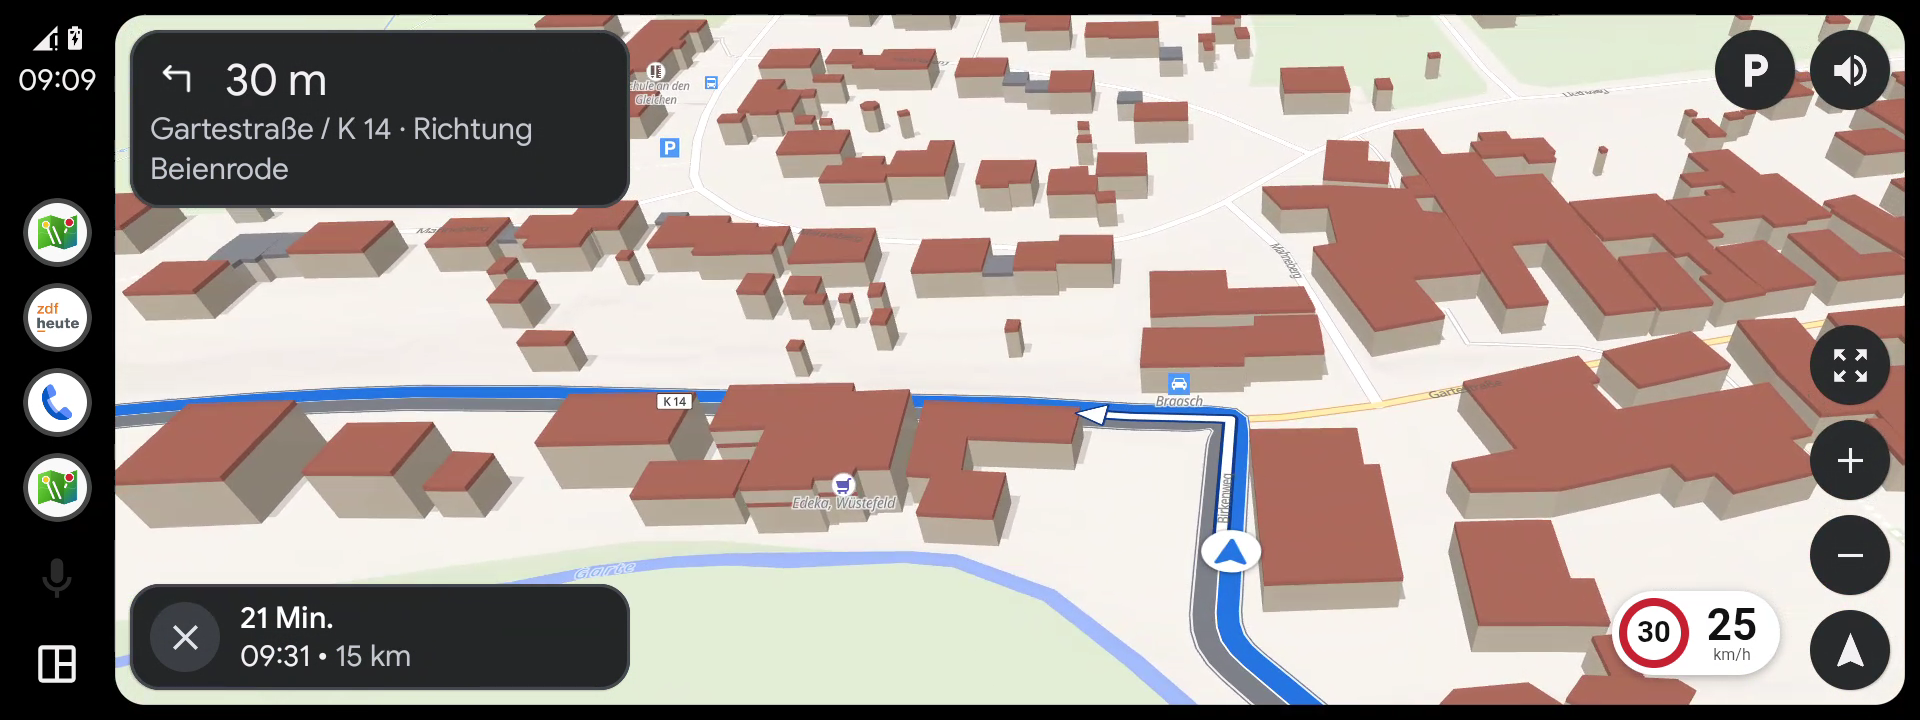
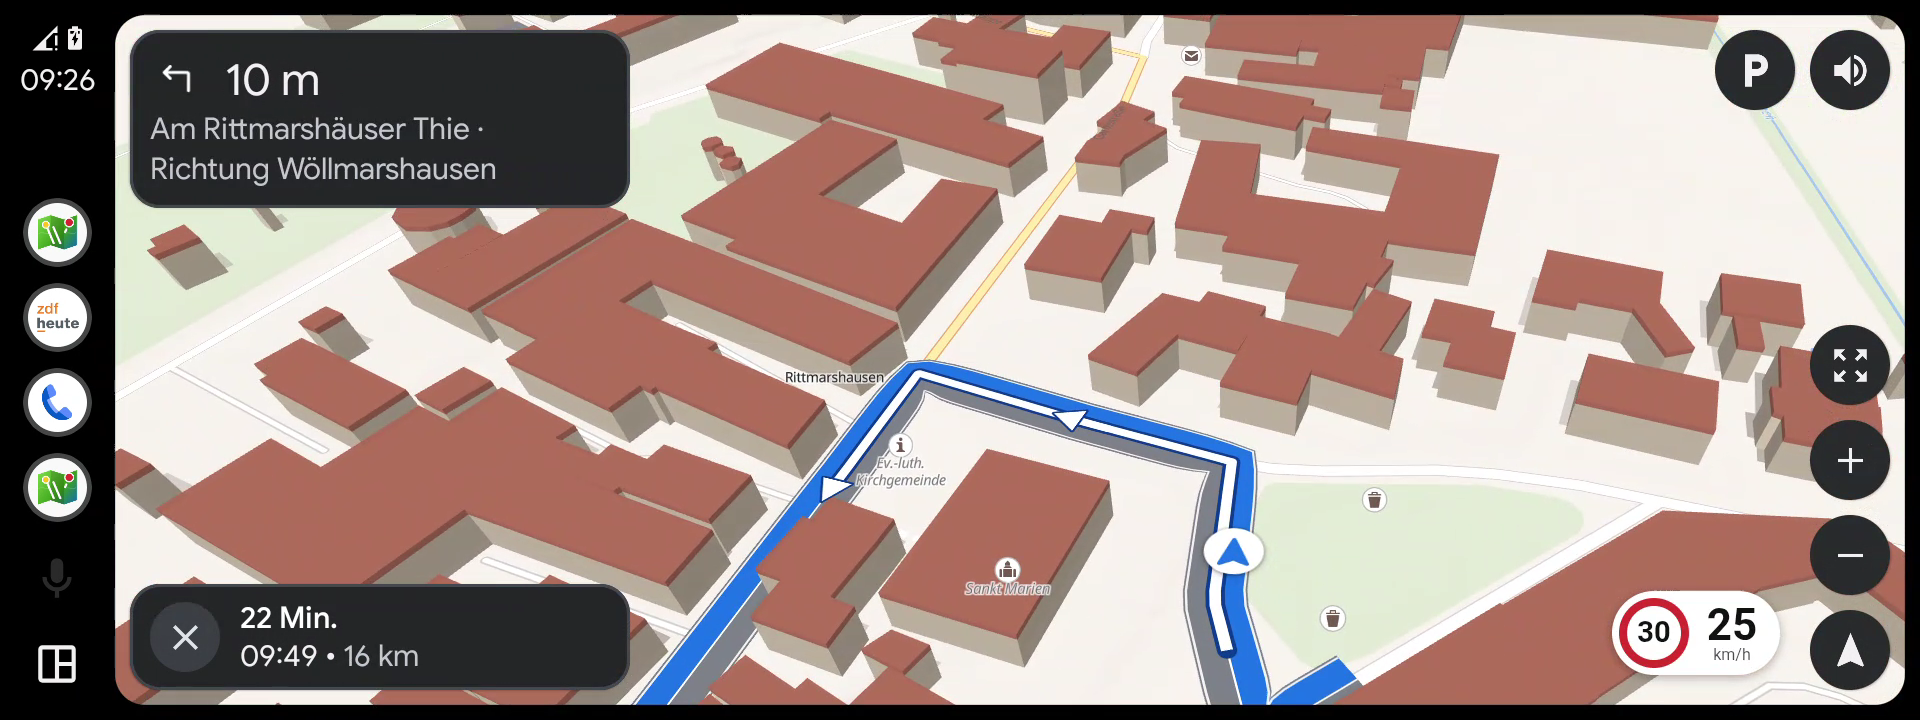
Mit dem Auto zu einem Geschäft, Lokal …: Die Fahrt endet am Parkplatz direkt davor (Rand höchstens 75 m vom Ort, nicht privat) – die Nadel bleibt am Ort, „P“ markiert das Ende, im Sheet steht ein Satz dazu; Navigation und Neuberechnen fahren denselben Punkt an (state.drive). Nur für Ziele, die als O

diff --git a/js/app/drive-target.js b/js/app/drive-target.js
@@ -1,0 +1,87 @@
+/**
+ * Fahrziel fürs Auto: In ein Geschäft, ein Lokal oder eine Praxis fährt man nicht hinein. Die Route endete
+ * bisher an der Straße, die dem Punkt des Orts am nächsten liegt – oft die Rückseite mit der Anlieferung –,
+ * und „Ziel erreicht“ kam dort. Darum endet die Fahrt am nächsten Parkplatz davor; die Nadel bleibt am Ort.
+ *
+ * Gilt nur für Ziele, die als Ort gewählt wurden (Wegpunkt mit `poi`) – nicht für Adressen, Punkte auf der
+ * Karte oder Orte, in die man hineinfährt (Parkplatz, Tankstelle, Ladesäule, Waschanlage).
+ */
+import * as overpass from '../services/overpass.js';
+import { poisInBounds } from '../map/tile-pois.js';
+import { bboxAround, distance } from '../core/geo.js';
+import { map } from './core.js';
+
+/*
+ * „Davor“ heißt: Der Rand des Parkplatzes liegt höchstens so weit vom Punkt des Orts (Meter) – bei einem großen
+ * Markt ist das schon die halbe Halle. Ein Parkplatz weiter weg gehört meist zu etwas anderem; dann bleibt es
+ * beim Ort selbst (die Route endet wie bisher an der nächsten Straße). Die Kartenkacheln kennen nur die Mitte
+ * des Parkplatzes, darum dort etwas mehr.
+ */
+const EDGE_M = 75;
+const CENTER_M = 90;
+/** Länger wartet die Route nicht auf Overpass – dann zählen die Parkplätze aus den Kartenkacheln */
+const WAIT_MS = 2500;
+
+const POI_KEYS = ['shop', 'amenity', 'tourism', 'leisure', 'office', 'craft', 'healthcare'];
+const DRIVE_IN = new Set(['parking', 'parking_entrance', 'parking_space', 'motorcycle_parking', 'fuel',
+  'charging_station', 'car_wash', 'vehicle_inspection', 'camp_site', 'caravan_site']);
+/** Dort parkt man als Besucher nicht („customers“ dagegen ist genau richtig) */
+const NO_ACCESS = /^(private|no|permit|residents|employees|delivery|agricultural|forestry|military)$/;
+
+/** Ein Ort, vor dem man parkt – Photon-Feature, Treffer einer Kategorie oder gemerkter Ort (`_poi`) */
+export function isPoi(f) {
+  const p = f?.properties ?? {};
+  if (p._poi) return true;
+  const tags = p._tags ?? (p.osm_key ? { [p.osm_key]: p.osm_value } : {});
+  const key = POI_KEYS.find((k) => tags[k]);
+  return !!key && !DRIVE_IN.has(tags[key]);
+}
+
+const memo = new Map();             // "lon,lat" → Parkplatz | null
+
+/**
+ * Der nächste Parkplatz am Ort: erst mit Overpass (kennt „privat“), sonst aus den Kartenkacheln.
+ * → { point, dist, name } oder null (keiner direkt am Ort – die Route endet wie bisher an der nächsten Straße)
+ */
+export async function parkingNear(point, { signal } = {}) {
+  const key = point.map((v) => v.toFixed(5)).join();
+  if (memo.has(key)) return memo.get(key);
+  let found = await fromOverpass(point, signal);
+  if (signal?.aborted) throw new DOMException('Abgebrochen', 'AbortError');
+  found ??= await fromTiles(point, signal);
+  const near = found.map((p) => ({ ...p, dist: Math.round(distance(point, p.point)) })).sort((a, b) => a.dist - b.dist)[0] ?? null;
+  memo.set(key, near);
+  if (memo.size > 50) memo.delete(memo.keys().next().value);
+  return near;
+}
+
+/** → Liste oder null, wenn Overpass nicht (rechtzeitig) antwortet */
+async function fromOverpass([lon, lat], signal) {
+  const ctl = new AbortController();
+  const stop = () => ctl.abort();
+  signal?.addEventListener('abort', stop, { once: true });
+  const timer = setTimeout(stop, WAIT_MS);
+  try {
+    const q = `[out:json][timeout:5];nwr["amenity"="parking"](around:${EDGE_M},${lat.toFixed(6)},${lon.toFixed(6)});out center tags 40;`;
+    return (await overpass.run(q, ctl.signal))
+      .map((e) => ({ point: e.center ? [e.center.lon, e.center.lat] : [e.lon, e.lat], tags: e.tags ?? {} }))
+      .filter((p) => Number.isFinite(p.point[0]) && !NO_ACCESS.test(p.tags.access ?? ''))
+      .map((p) => ({ point: p.point, name: p.tags.name ?? '' }));
+  } catch {
+    return null;
+  } finally {
+    clearTimeout(timer);
+    signal?.removeEventListener('abort', stop);
+  }
+}
+
+async function fromTiles(point, signal) {
+  try {
+    return (await poisInBounds(map, bboxAround(point, CENTER_M), { signal }))
+      .filter((p) => p.props.subclass === 'parking' && distance(point, p.point) <= CENTER_M)
+      .map((p) => ({ point: p.point, name: p.props.name ?? '' }));
+  } catch (err) {
+    if (err.name === 'AbortError') throw err;
+    return [];
+  }
+}

diff --git a/js/app/route-results.js b/js/app/route-results.js
@@ -15,7 +15,8 @@ import { connections } from '../data/saved.js';
 import { share, routeUrl, clock } from '../ui/share.js';
 import { toast } from '../ui/dialogs.js';
 import { nearestOnLine, pointAt, simplifyTo, bbox, fmtDistance, fmtDuration, esc } from '../core/geo.js';
-import { CAR, $, afterLayout, chipHtml, current, debounce, fitTo, map, myPosition, releaseLock, sheet, state, viewPadding } from './core.js';
+import { CAR, $, afterLayout, chipHtml, current, debounce, fitTo, map, markerEl, myPosition, releaseLock, sheet, state, viewPadding } from './core.js';
+import { parkingNear } from './drive-target.js';
 import { nav } from './nav.js';
 import { compactRoute, isSet, transitWhen } from './route-plan.js';
 import { loadTraffic, runAlong } from './traffic-along.js';
@@ -25,6 +26,7 @@ import { closeSheet, openSheet } from './views.js';
 
 export let routeCtl = null;
 let altMarkers = [];
+let parkMarker = null;
 
 export const elevation = new ElevationProfile($('[data-view="route"] .elevation'), {
   onHover(km) {
@@ -46,16 +48,23 @@ export async function computeRoutes() {
   routeStatus('Route wird berechnet …');
   try {
     const points = await Promise.all(state.waypoints.map((w) => (w.me ? myPosition() : w.point)));
+    // Mit dem Auto zu einem Geschäft, Lokal …: gefahren wird bis zum Parkplatz davor (app/drive-target.js)
+    const park = PROFILES[state.profile].costing === 'auto' && state.waypoints.at(-1).poi
+      ? await parkingNear(points.at(-1), { signal }) : null;
+    if (signal.aborted) return;
+    const drive = park ? [...points.slice(0, -1), park.point] : points;
     // Bus & Bahn: Verbindungen nach Fahrplan (Zwischenziele zählen hier nicht)
     const routes = PROFILES[state.profile].transit
       ? await journeys(points[0], points.at(-1), { ...transitWhen(), params: transitParams(), change: prefs.change, fastest: prefs.fastest, signal })
-      : await getRoutes(points, state.profile, {
+      : await getRoutes(drive, state.profile, {
         highways: prefs.highways, avoid: state.avoid.map((p) => avoidRing(p)), signal,
       });
     if (signal.aborted) return;
     state.points = points;
+    state.drive = drive;
     state.routes = routes;
     routeStatus(null);
+    showPark(park, state.waypoints.at(-1).label);
     compactRoute(true);
     selectRoute(routes[0].id, { fit: true });
     // Im Auto erst mit „Los“ (car/car.js): dort rechnet schon das Ansehen eines Orts die Route –
@@ -80,9 +89,19 @@ export function clearRoutes({ keepSheet = false } = {}) {
   showHover(map, null);
   altMarkers.forEach((m) => m.remove());
   altMarkers = [];
+  showPark(null);
   const view = $('[data-view="route"]');
   view.classList.add('empty');
   if (!keepSheet && sheet.dataset.current === 'route') closeSheet();
+}
+
+/** Die Fahrt endet am Parkplatz vor dem Ziel: „P“ auf der Karte, ein Satz im Sheet – die Nadel bleibt am Ort */
+function showPark(park, label = '') {
+  parkMarker?.remove();
+  parkMarker = park ? new maplibregl.Marker({ element: markerEl('park', 'local_parking') }).setLngLat(park.point).addTo(map) : null;
+  const el = $('[data-view="route"] .route-park');
+  el.hidden = !park;
+  el.innerHTML = park ? `<span class="msr">local_parking</span> Die Fahrt endet am Parkplatz davor – ${fmtDistance(park.dist)} bis ${esc(label.split(',')[0])}` : '';
 }
 
 /** `retry`: Server nicht erreichbar o. Ä. – mit Knopf „Erneut versuchen“ (im Auto ohne: dort gibt es keine eigene Oberfläche) */
@@ -111,7 +130,7 @@ export function fitRoute() {
 /** Die geplante Strecke in den Verlauf („Zuletzt genutzt“, letzte Ziele im Auto) */
 export function rememberRoute() {
   if (state.waypoints.length < 2) return;
-  const wps = state.waypoints.map(({ label, point, me: isMe }) => ({ label, point: isMe ? null : point, me: isMe }));
+  const wps = state.waypoints.map(({ label, point, me: isMe, poi }) => ({ label, point: isMe ? null : point, me: isMe, ...(poi ? { poi: true } : {}) }));
   recent.add({
     kind: 'route', profile: state.profile, waypoints: wps, from: wps[0], to: wps.at(-1),
     title: `${wps[0].label} → ${wps.at(-1).label}`,

diff --git a/js/car/car.js b/js/car/car.js
@@ -34,6 +34,7 @@ import { PROFILES } from '../core/config.js';
 import { fmtAbout, maneuverIcon, roadDistances, ROAD_FIRST } from '../services/routing.js';
 import { current, fitTo, map, parseTags, showHl, state } from '../app/core.js';
 import { tilePoints } from '../app/category.js';
+import { isPoi } from '../app/drive-target.js';
 import { clearPlace, featureFromPoint, showPlace } from '../app/place.js';
 import { enterRoute, leaveRouteMode, setProfile } from '../app/route-plan.js';
 import { clearRoutes, computeRoutes, fitRoute, rememberRoute, selectRoute } from '../app/route-results.js';
@@ -290,7 +291,7 @@ function savedRows(text = '', limit = 6) {
     .sort((a, b) => KIND_ORDER.indexOf(a.kind) - KIND_ORDER.indexOf(b.kind))
     .slice(0, limit)
     .map((p) => {
-      const f = { type: 'Feature', geometry: { type: 'Point', coordinates: p.point }, properties: { name: p.name, _point: true } };
+      const f = { type: 'Feature', geometry: { type: 'Point', coordinates: p.point }, properties: { name: p.name, _point: true, _poi: !!p.poi } };
       const m = dist(p.point);
       return {
         ...row(f), kind: 'target', place: p.kind, icon: PLACE_KINDS[p.kind]?.icon ?? 'star', color: KIND_COLOR[p.kind] ?? null,
@@ -347,10 +348,11 @@ async function routeTo(key) {
   const f = hits.get(key);
   if (!f) throw new Error('Ort nicht mehr bekannt');
   const title = f.properties._point ? f.properties.name : geocode.describe(f).title;
-  return routeToPoint(f.geometry.coordinates, title);
+  return routeToPoint(f.geometry.coordinates, title, isPoi(f));
 }
 
-async function routeToPoint(point, label) {
+/** `poi`: ein Geschäft, Lokal … – die Fahrt endet am Parkplatz davor (app/drive-target.js) */
+async function routeToPoint(point, label, poi = false) {
   if (nav.active) nav.stop();
   pauseDrive();
   clearPlace();
@@ -362,7 +364,7 @@ async function routeToPoint(point, label) {
   setProfile('car');
   // Der Standort läuft im Auto ständig mit – nicht erst auf eine neue Meldung warten
   const from = state.position ? { label: 'Mein Standort', point: state.position, me: false } : { label: 'Mein Standort', point: null, me: true };
-  enterRoute({ waypoints: [from, { label, point, me: false }], push: false });
+  enterRoute({ waypoints: [from, { label, point, me: false, ...(poi === true ? { poi: true } : {}) }], push: false });
   return routesReady();
 }
 
@@ -547,7 +549,7 @@ const methods = {
       .map((r) => r.to).filter((t) => t?.point && !t.me)
       .filter((t) => { const k = t.point.map((v) => v.toFixed(4)).join(); if (seen.has(k)) return false; seen.add(k); return true; })
       .slice(0, 6)
-      .map((t) => ({ ...row({ type: 'Feature', geometry: { type: 'Point', coordinates: t.point }, properties: { name: t.label, _point: true } }), kind: 'target', icon: 'history' }));
+      .map((t) => ({ ...row({ type: 'Feature', geometry: { type: 'Point', coordinates: t.point }, properties: { name: t.label, _point: true, _poi: !!t.poi } }), kind: 'target', icon: 'history' }));
   },
   /** „Ziel wählen“: Zuhause, Arbeit, Lesezeichen, zuletzt gefahren */
   async targets() {
@@ -563,7 +565,7 @@ const methods = {
     const f = hits.get(key);
     if (!f) return false;
     const title = f.properties._point ? f.properties.name : geocode.describe(f).title;
-    places.save({ kind: 'fav', name: title, point: f.geometry.coordinates });
+    places.save({ kind: 'fav', name: title, point: f.geometry.coordinates, poi: isPoi(f) });
     return true;
   },
   routeTo,

diff --git a/js/app/search.js b/js/app/search.js
@@ -13,6 +13,7 @@ import { distance, esc, fmtDistance } from '../core/geo.js';
 import { fmtAbout, roadDistances, ROAD_FIRST } from '../services/routing.js';
 import { runCategory } from './category.js';
 import { $, $$, debounce, map, q, state } from './core.js';
+import { isPoi } from './drive-target.js';
 import { paintPlaceActions, placeWaypoint, showPlace } from './place.js';
 import { openReach } from './reach.js';
 import { enterRoute, setProfile } from './route-plan.js';
@@ -168,7 +169,7 @@ export function savedItems(onPlace, text = '') {
     .sort((a, b) => order.indexOf(a.kind) - order.indexOf(b.kind)).slice(0, 6).map((p) => ({
     section: SAVED_SECTION, icon: PLACE_KINDS[p.kind]?.icon ?? 'star', title: p.name, point: p.point,
     subtitle: [fixedKind(p) ? '' : p.list && p.list !== DEFAULT_LIST ? p.list : PLACE_KINDS[p.kind]?.label, p.label].filter(Boolean).join(' · '),
-    run: () => onPlace({ type: 'Feature', geometry: { type: 'Point', coordinates: p.point }, properties: { name: p.name } }),
+    run: () => onPlace({ type: 'Feature', geometry: { type: 'Point', coordinates: p.point }, properties: { name: p.name, _poi: !!p.poi } }),
   }));
 }
 
@@ -181,7 +182,7 @@ export function togglePlace(f, point, title, subtitle) {
   const had = places.find(point);
   if (had) { editBookmark(point, title); return; }
   const tags = f.properties._tags;
-  places.save({ kind: tags && isStop(tags) ? 'stop' : 'fav', name: title, label: subtitle, point, ifopt: tags?.['ref:IFOPT'] ?? '' });
+  places.save({ kind: tags && isStop(tags) ? 'stop' : 'fav', name: title, label: subtitle, point, ifopt: tags?.['ref:IFOPT'] ?? '', poi: isPoi(f) });
   paintPlaceActions();
   toast(`In „${DEFAULT_LIST}“ gemerkt`, { action: { label: 'Ändern', run: () => editBookmark(point, title) } });
 }

diff --git a/js/app/place.js b/js/app/place.js
@@ -15,6 +15,7 @@ import { editPlace, addPlace } from '../osm/edit.js';
 import { bboxAround, esc } from '../core/geo.js';
 import { clearCategory, runCategory } from './category.js';
 import { $, afterLayout, chipHtml, current, extentToBounds, fitTo, lastHl, map, markerEl, parseTags, q, releaseLock, sheet, showHl, state, viewPadding } from './core.js';
+import { isPoi } from './drive-target.js';
 import { showLayerInfo } from './map-clicks.js';
 import { nav } from './nav.js';
 import { clearReach, openReach, reach } from './reach.js';
@@ -181,7 +182,7 @@ export function paintPlaceActions() {
   if (!f) return;
   const point = f.geometry.coordinates;
   const label = f.properties._point ? 'Punkt auf der Karte' : geocode.describe(f).title;
-  const wp = { label, point, me: false };
+  const wp = { label, point, me: false, ...(isPoi(f) ? { poi: true } : {}) };
   const toRoute = (fn) => () => { if (stack.at(-1)?.view === 'place') back(); fn(); };
   let list;
   if (nav.active) {
@@ -272,7 +273,7 @@ export function clearPlace() {
   showHl({});
 }
 
-export const placeWaypoint = (f) => ({ label: geocode.describe(f).title, point: f.geometry.coordinates, me: false });
+export const placeWaypoint = (f) => ({ label: geocode.describe(f).title, point: f.geometry.coordinates, me: false, ...(isPoi(f) ? { poi: true } : {}) });
 
 /** Feature im Photon-Format aus einem Overpass-Punkt (Kategorie-Treffer). */
 export function featureFromPoint(p) {

diff --git a/js/data/saved.js b/js/data/saved.js
@@ -96,11 +96,12 @@ export const places = {
   /** Orte einer Liste (ohne Zuhause/Arbeit) */
   inList: (list) => read().places.filter((p) => !fixed(p.kind) && (p.list || DEFAULT_LIST) === list),
   /** Zuhause/Arbeit gibt es nur einmal – neu setzen ersetzt. `name` darf frei sein („Oma“, „Verein“ …) */
-  save({ kind = 'fav', name, label = '', point, ifopt = '', list = DEFAULT_LIST }) {
+  save({ kind = 'fav', name, label = '', point, ifopt = '', list = DEFAULT_LIST, poi = null }) {
     const d = read();
     const at = (p) => Math.abs(p.point[0] - point[0]) < 1e-5 && Math.abs(p.point[1] - point[1]) < 1e-5;
     const old = d.places.find((p) => (fixed(kind) ? p.kind === kind : at(p) && p.kind === kind));
-    const p = { id: old?.id ?? newId(), kind, name, label, point, ifopt, ...(fixed(kind) ? {} : { list: list || DEFAULT_LIST }), updated: Date.now() };
+    // `poi`: ein Geschäft, Lokal … – mit dem Auto endet die Fahrt am Parkplatz davor (app/drive-target.js)
+    const p = { id: old?.id ?? newId(), kind, name, label, point, ifopt, ...(fixed(kind) ? {} : { list: list || DEFAULT_LIST }), ...((poi ?? old?.poi) ? { poi: true } : {}), updated: Date.now() };
     d.places = [...d.places.filter((x) => x !== old), p];
     write(d);
     return p;

diff --git a/tools/android/car/CarScreens.kt b/tools/android/car/CarScreens.kt
@@ -722,7 +722,8 @@ class PlaceScreen(ctx: CarContext, private val s: WMapSession, place: JSONObject
       val first = listOf(p.optString("type"), chosen?.optString("title") ?: p.optString("distText")).filter { it.isNotEmpty() }.joinToString(" · ")
       pane.addRow(Row.Builder().setTitle(first.ifEmpty { "Ort" }).apply {
         p.optString("address").takeIf { it.isNotEmpty() }?.let { addText(it) }
-        if (list != null && list.size > 1) addText("${list.size - 1} weitere ${if (list.size == 2) "Route" else "Routen"} – auf der Karte antippen")
+        // Kurz: Die Zeile wird im Auto nach rund 28 Zeichen abgeschnitten
+        if (list != null && list.size > 1) addText("+${list.size - 1} ${if (list.size == 2) "Route" else "Routen"} · Karte antippen")
         p.optString("png").takeIf { it.isNotEmpty() }?.let { setImage(CarIcons.png(it)) }
       }.build())
       p.optString("status").takeIf { it.isNotEmpty() }?.let { st ->

diff --git a/js/app/core.js b/js/app/core.js
@@ -36,6 +36,7 @@ export const state = {
   profile: !CAR && PROFILES[local.get('wmap.profile')]?.nav ? local.get('wmap.profile') : 'car',
   waypoints: [],        // { label, point: [lon, lat] | null, me: bool }
   points: [],           // aufgelöste Punkte der letzten Berechnung
+  drive: [],            // dieselben, wie sie gefahren werden: das Ziel ggf. der Parkplatz davor (app/drive-target.js)
   routes: [],
   selected: 0,
   place: null,          // gewählter Ort (Photon-Feature oder daraus gebaut)

diff --git a/sw.js b/sw.js
@@ -40,7 +40,7 @@ const VERSION = '2.1.0';            // von appdata/version.py – neue Nummer = 
 // Stand der Dateien (Prüfsumme über alles in sw-files.json, von version.py):
 // dieselbe Nummer noch einmal hochgeladen ist trotzdem ein neuer Service Worker
 // mit eigenem Speicher – Alt und Neu mischen sich nie
-const BUILD = '62a6f251a1';
+const BUILD = '1409748909';
 const APP = `wmap-app-${VERSION}-${BUILD}`;
 const APP_PREFIX = 'wmap-app-';
 const SHARE = 'wmap-share';

diff --git a/css/app/sheet.css b/css/app/sheet.css
@@ -208,6 +208,17 @@
     font-size: var(--fs-100);
 }
 
+.route-park {
+    display: flex;
+    align-items: center;
+    gap: .35rem;
+    margin: .1rem 0 .5rem;
+    color: var(--muted);
+    font-size: var(--fs-200);
+    .msr { font-size: 1.15rem; color: #1e6fd9; }
+    &[hidden] { display: none; }
+}
+
 .route-status {
     color: var(--muted);
     &.error { color: var(--clr-danger-600); }

diff --git a/css/app/map.css b/css/app/map.css
@@ -31,6 +31,8 @@
     /* Suchtreffer im Planer (noch nicht übernommen): blau, nicht wie das Ziel */
     &.found { color: var(--route); cursor: default; }
     &.place { cursor: default; }
+    /* Ende der Fahrt: der Parkplatz vor dem Ziel (app/drive-target.js) */
+    &.park { background: #1e6fd9; border: 2px solid #fff; color: #fff; cursor: default; }
 }
 
 .alt-label {

diff --git a/index.html b/index.html
@@ -264,6 +264,7 @@
                     </button>
                 </header>
                 <p class="route-status" hidden></p>
+                <p class="route-park" hidden></p>
                 <div class="route-options" role="listbox" aria-label="Routen"></div>
                 <div class="elevation"></div>
                 <section class="traffic" hidden>
